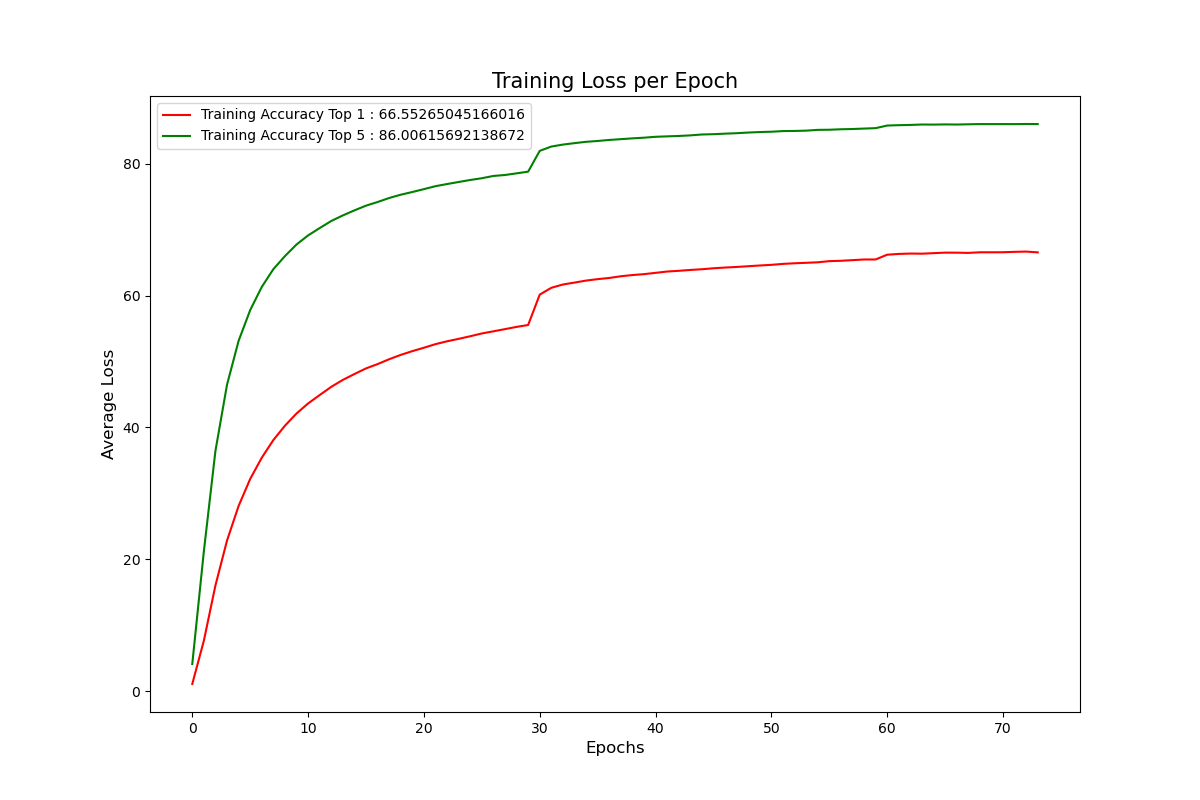
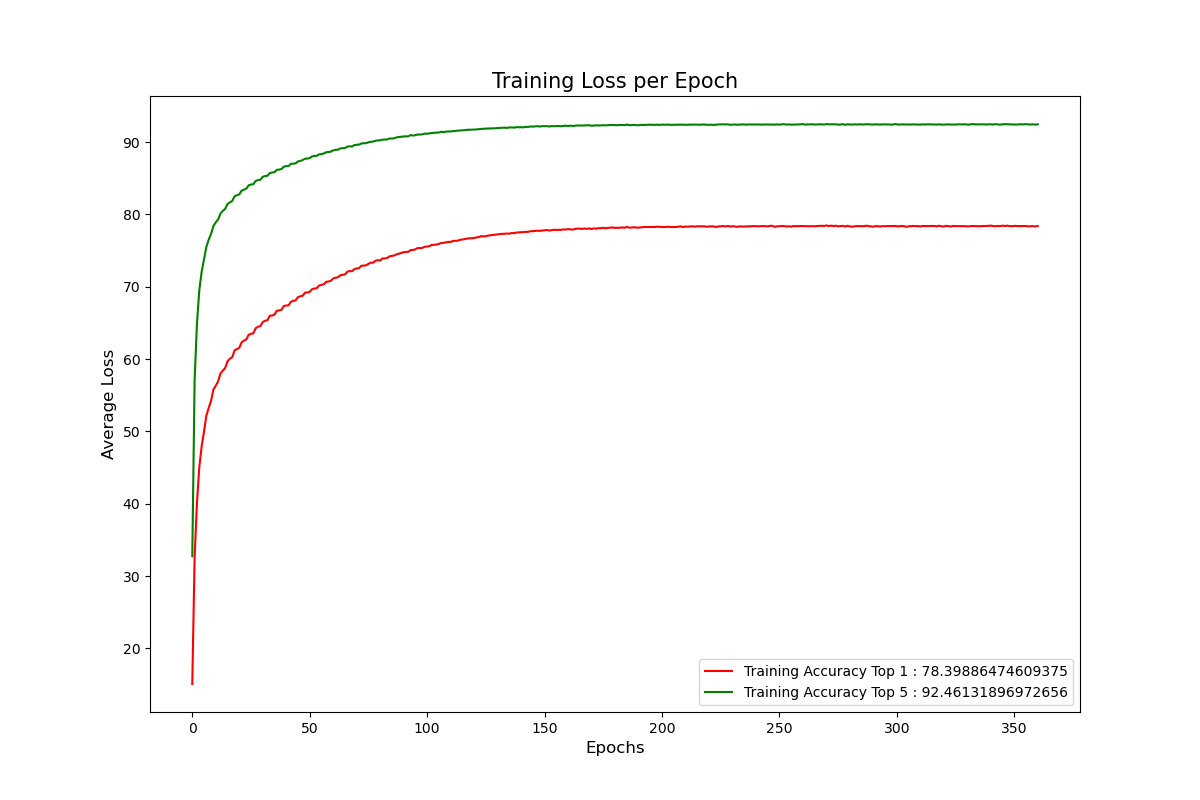
[20220302] Tensorboard Update

diff --git a/classifier/image_classifier.py b/classifier/image_classifier.py
@@ -23,6 +23,7 @@ import os
 import time
 import numpy as np
 import matplotlib.pyplot as plt
+from torch.utils.tensorboard import SummaryWriter
 
 
 class ImageClassifier:
@@ -44,6 +45,7 @@ class ImageClassifier:
         self.batch_size = 0
         self.epochs = 0
         self.step = 0
+        self.writer = None
         self.training_accuracy_top1 = list()
         self.training_accuracy_top5 = list()
         self.validation_accuracy_top1 = list()
@@ -455,6 +457,13 @@ class ImageClassifier:
         self.get_print_line()
         self.get_print_info("Train Start!")
         self.get_print_line()
+
+        self.writer = SummaryWriter('runs/' + self.model.get_name())
+
+        dataiter = iter(self.train_loader)
+        source, target = dataiter.next()
+        self.writer.add_graph(self.model, source.to(self.dev))
+
         for epoch in range(start_epoch, total_epcoh):
 
             self.get_print_line()
@@ -522,6 +531,10 @@ class ImageClassifier:
             batch_time.update(time.time() - end)
             end = time.time()
             if i % print_freq == 0:
+                self.writer.add_scalar('loss', losses.avg, epoch * self.dataset.get_train_size() + i)
+                self.writer.add_scalar('learning_rate', self.scheduler.get_last_lr()[0], epoch * self.dataset.get_train_size() + i)
+                self.writer.add_scalar('top1_accuracy', top1.avg, epoch * self.dataset.get_train_size() + i)
+                self.writer.add_scalar('top5_accuracy', top5.avg, epoch * self.dataset.get_train_size() + i)
                 self.get_print_info("Learning Rate : {0} \t"
                                     "Epoch: [{1}][{2}/{3}]\t"
                                     "Time {batch_time.val:.3f} ({batch_time.avg:.3f})\t"
